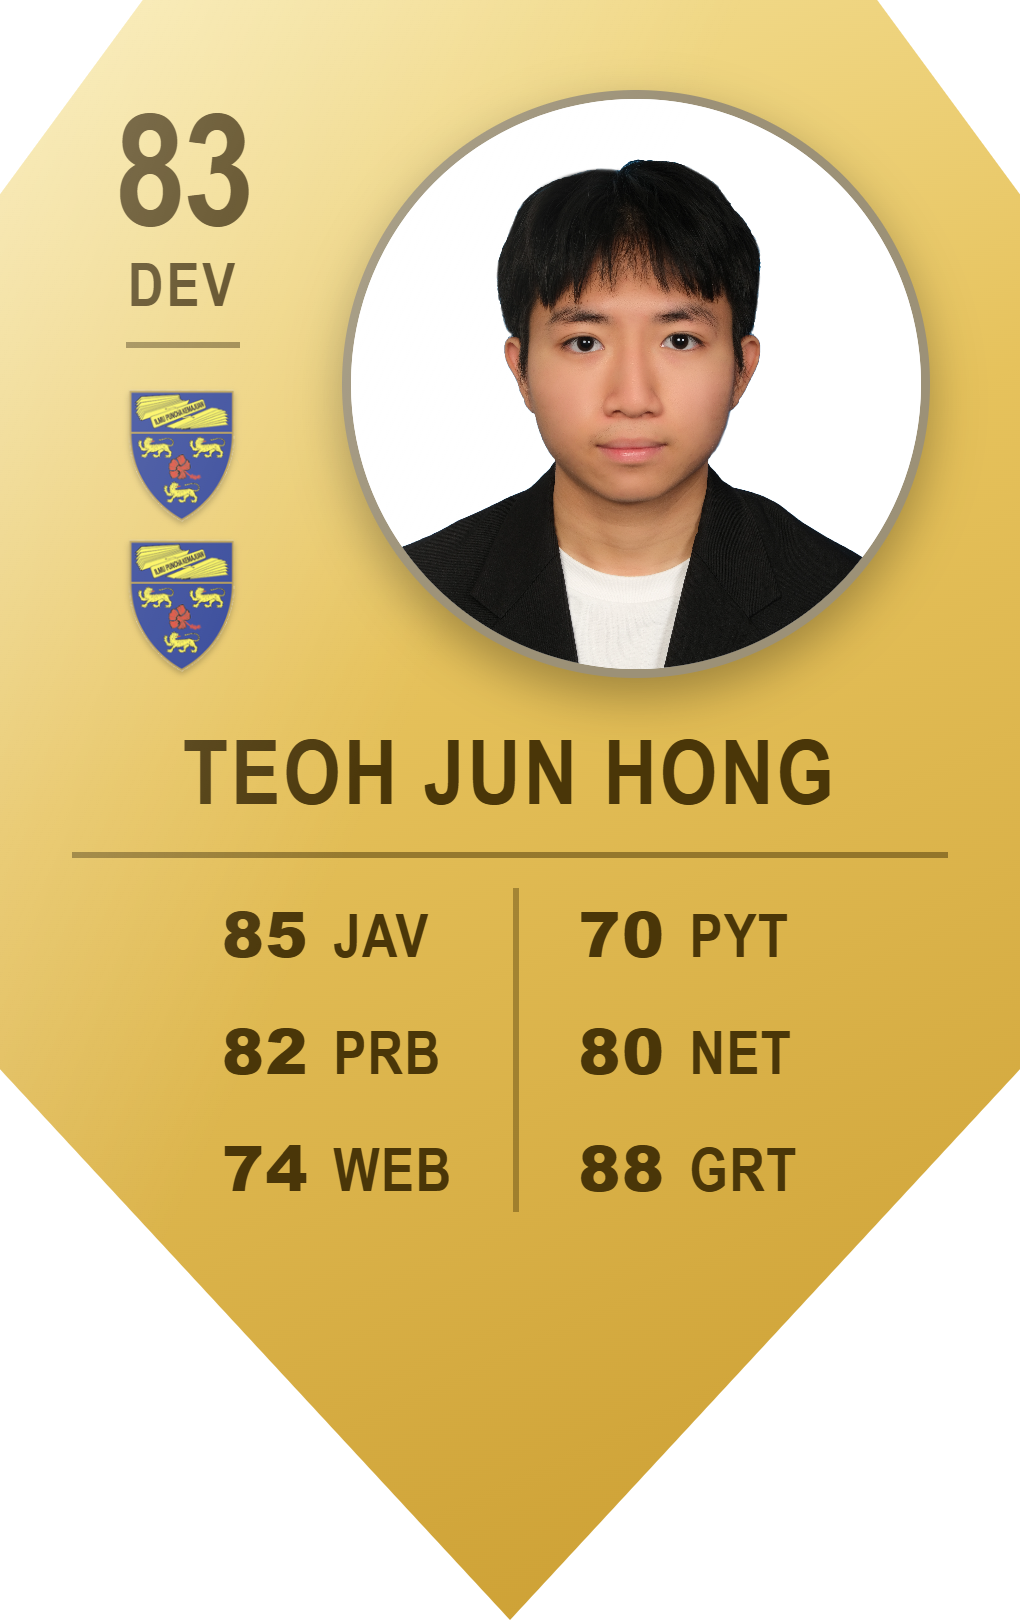
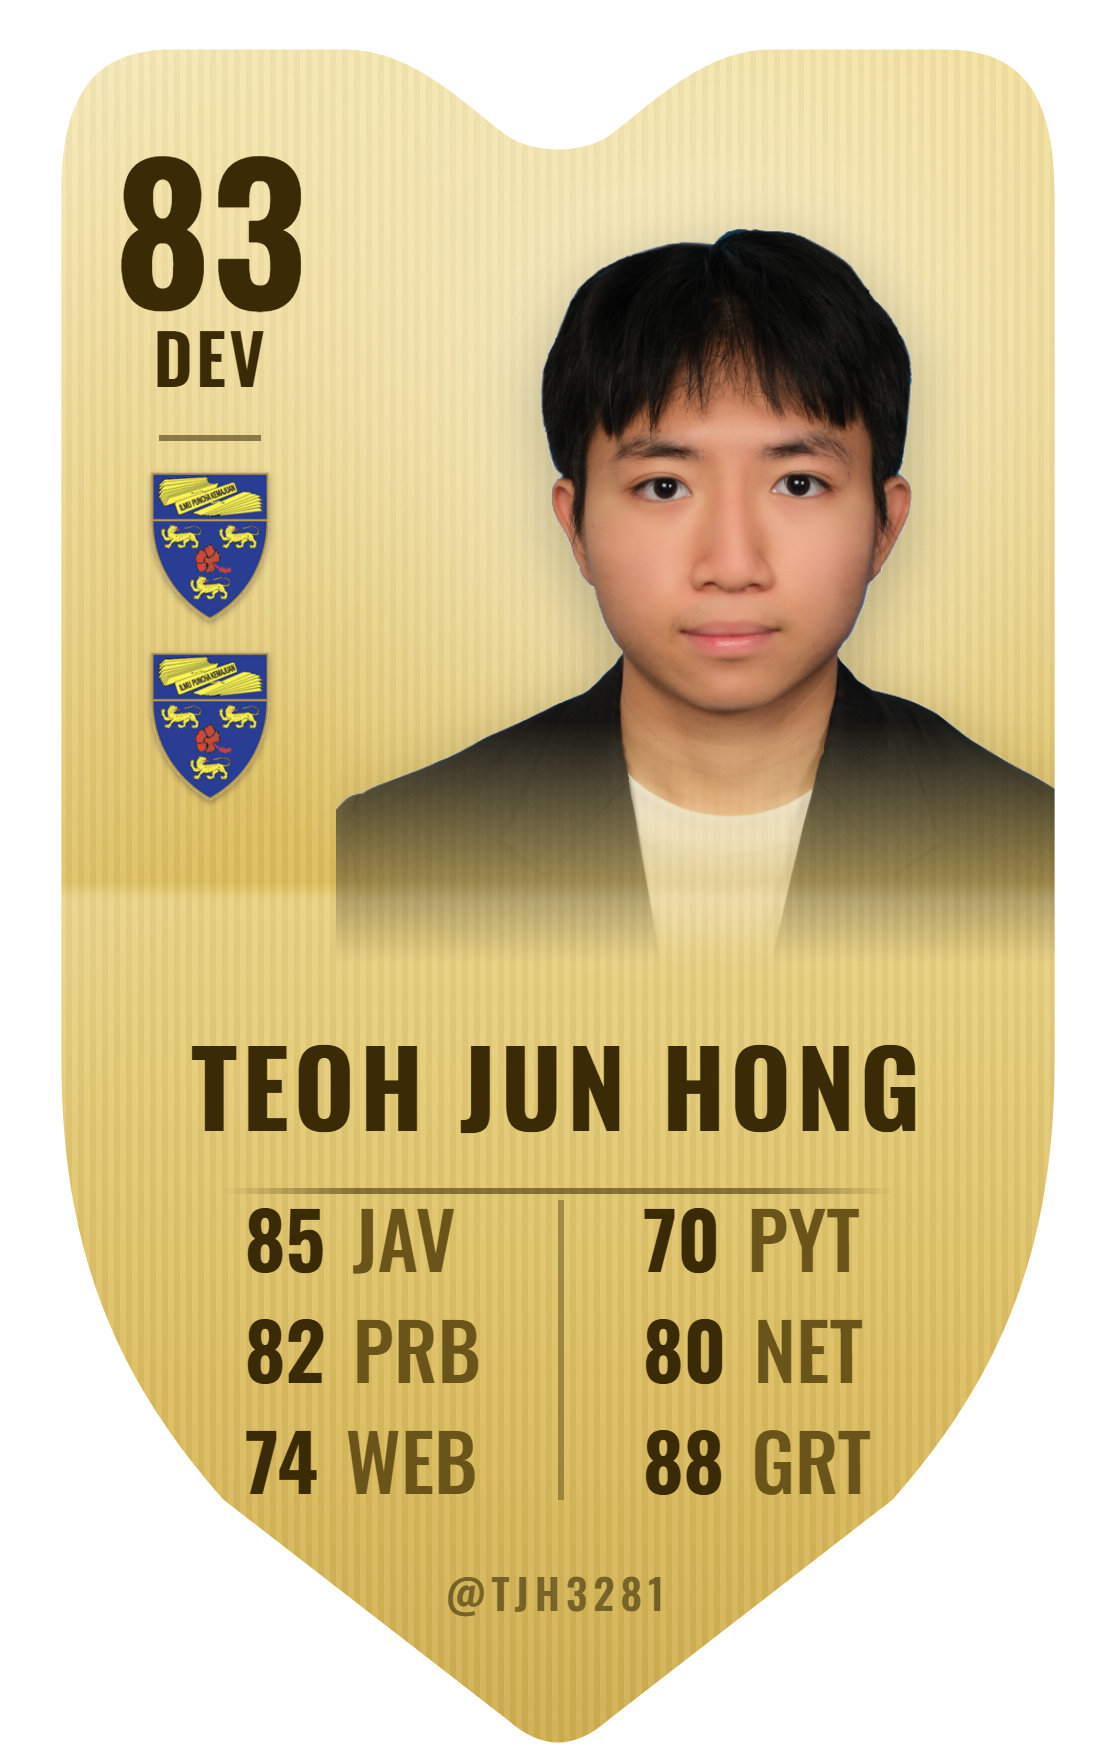
Redesign player card: FUT-style silhouette, cut-out photo, Oswald font

diff --git a/card.html b/card.html
@@ -4,93 +4,121 @@
 <meta charset="utf-8">
 <title>tjh3281 — dev card</title>
 <style>
-  :root { --gold-1:#f7e6a2; --gold-2:#e6c25c; --gold-3:#c99b2e; --ink:#4a3608; }
+  @import url('https://fonts.googleapis.com/css2?family=Oswald:wght@400;500;600;700&display=swap');
+
+  :root { --ink:#3a2b06; --ink-soft:#6a541a; }
   * { margin:0; padding:0; box-sizing:border-box; }
   html,body { background:transparent; }
-  body { display:flex; align-items:center; justify-content:center; padding:40px;
-         font-family:"Arial Narrow","Oswald",Impact,sans-serif; }
+  body { display:flex; align-items:center; justify-content:center; padding:44px;
+         font-family:"Oswald",sans-serif; }
 
   .card {
     position:relative;
-    width:340px; height:540px;
-    padding:26px 24px 22px;
-    background:linear-gradient(155deg,var(--gold-1) 0%,var(--gold-2) 40%,var(--gold-3) 100%);
-    clip-path:polygon(0 12%,14% 0,86% 0,100% 12%,100% 66%,50% 100%,0 66%);
+    width:372px; height:588px;
+    clip-path:url(#fut);
+    background:
+      radial-gradient(115% 70% at 63% 24%, rgba(255,255,255,.62), rgba(255,255,255,0) 46%),
+      repeating-linear-gradient(90deg, rgba(255,255,255,.05) 0 2px, rgba(0,0,0,.03) 2px 4px),
+      linear-gradient(180deg,#f3e09a 0%,#e7cd74 26%,#dcbd5c 50%,#e9d283 51%,#dcbe61 78%,#cfae4f 100%);
     color:var(--ink);
-    box-shadow:0 24px 60px rgba(0,0,0,.45);
+    filter:drop-shadow(0 22px 40px rgba(0,0,0,.42));
   }
-  /* subtle inner sheen */
-  .card::after{
+  /* top gloss */
+  .card::before{
     content:""; position:absolute; inset:0;
-    background:linear-gradient(115deg,rgba(255,255,255,.35),rgba(255,255,255,0) 42%);
-    clip-path:inherit; pointer-events:none;
+    background:linear-gradient(120deg,rgba(255,255,255,.4),rgba(255,255,255,0) 34%);
+    pointer-events:none;
   }
 
-  .top { display:flex; gap:10px; }
-
-  .rating { display:flex; flex-direction:column; align-items:center; width:74px; padding-top:8px; }
-  .ovr { font-size:52px; line-height:.9; font-weight:700; letter-spacing:-1px; }
-  .pos { font-size:20px; font-weight:700; letter-spacing:1px; margin-top:2px; }
-  .rule { width:38px; height:2px; background:var(--ink); opacity:.55; margin:8px 0; }
-  .crest { width:46px; height:46px; display:flex; align-items:center; justify-content:center; margin-top:4px; }
-  .crest img { max-width:100%; max-height:100%; object-fit:contain;
-               filter:drop-shadow(0 1px 1px rgba(0,0,0,.25)); }
-
-  .portrait { flex:1; display:flex; align-items:flex-start; justify-content:center; padding-top:4px; }
-  .portrait .frame {
-    width:196px; height:196px; border-radius:50%; overflow:hidden;
-    border:3px solid rgba(74,54,8,.55);
-    box-shadow:inset 0 0 0 4px rgba(255,255,255,.35), 0 6px 16px rgba(0,0,0,.3);
-    background:#fff;
+  .player{
+    position:absolute; top:4%; right:-2%; width:72%; z-index:1;
+    -webkit-mask-image:linear-gradient(180deg,#000 54%,transparent 74%);
+            mask-image:linear-gradient(180deg,#000 54%,transparent 74%);
+    filter:drop-shadow(0 6px 10px rgba(0,0,0,.25));
   }
-  .portrait img { width:100%; height:100%; object-fit:cover; object-position:center 18%; }
+  .player img{ width:100%; display:block; }
 
-  .name {
-    text-align:center; font-size:30px; font-weight:700; letter-spacing:1px;
-    text-transform:uppercase; margin:14px 0 10px;
-    border-bottom:2px solid rgba(74,54,8,.5); padding-bottom:10px;
+  .rating{
+    position:absolute; top:8.5%; left:10%; z-index:3;
+    display:flex; flex-direction:column; align-items:center; width:66px;
+  }
+  .ovr{ font-weight:700; font-size:62px; line-height:.82; }
+  .pos{ font-weight:600; font-size:23px; letter-spacing:1px; margin-top:1px; }
+  .rule{ width:34px; height:2px; background:var(--ink); opacity:.55; margin:9px 0 8px; }
+  .flag{ width:52px; height:52px; display:flex; align-items:center; justify-content:center; }
+  .flag img{ max-width:100%; max-height:100%; object-fit:contain;
+             filter:drop-shadow(0 1px 1px rgba(0,0,0,.3)); }
+  .flag + .flag{ margin-top:8px; }
+
+  .name{
+    position:absolute; top:57%; left:0; right:0; z-index:3; text-align:center;
+    font-weight:700; font-size:35px; letter-spacing:1.5px; text-transform:uppercase;
+  }
+  .name::after{
+    content:""; display:block; width:60%; height:2px; margin:9px auto 0;
+    background:linear-gradient(90deg,transparent,var(--ink) 20%,var(--ink) 80%,transparent);
+    opacity:.55;
   }
 
-  .stats { display:flex; justify-content:center; gap:20px; padding:0 6px; }
-  .col { display:flex; flex-direction:column; gap:9px; }
-  .stat { font-size:20px; font-weight:700; letter-spacing:.5px; white-space:nowrap; }
-  .stat b { font-size:21px; margin-right:8px; }
-  .vrule { width:2px; background:rgba(74,54,8,.4); align-self:stretch; }
+  .stats{
+    position:absolute; top:68%; left:0; right:0; z-index:3;
+    display:flex; justify-content:center; gap:26px;
+  }
+  .col{ display:flex; flex-direction:column; gap:11px; }
+  .stat{ font-size:26px; line-height:1; white-space:nowrap; }
+  .stat b{ font-weight:700; }
+  .stat span{ font-weight:500; color:var(--ink-soft); margin-left:9px; }
+  .vrule{ width:2px; background:var(--ink); opacity:.35; }
 
-  .foot { position:absolute; left:0; right:0; bottom:70px; text-align:center;
-          font-size:12px; letter-spacing:3px; font-weight:700; opacity:.7; }
+  .foot{
+    position:absolute; bottom:8%; left:0; right:0; z-index:3; text-align:center;
+    font-weight:600; font-size:14px; letter-spacing:2px; opacity:.6;
+  }
 </style>
 </head>
 <body>
+  <svg width="0" height="0" style="position:absolute">
+    <defs>
+      <clipPath id="fut" clipPathUnits="objectBoundingBox">
+        <path d="M0.055,0.11 C0.055,0.045 0.095,0.028 0.155,0.028 L0.31,0.028
+                 C0.365,0.028 0.41,0.055 0.45,0.075 C0.475,0.088 0.525,0.088 0.55,0.075
+                 C0.59,0.055 0.635,0.028 0.69,0.028 L0.845,0.028
+                 C0.905,0.028 0.945,0.045 0.945,0.11 L0.945,0.60
+                 C0.945,0.70 0.905,0.775 0.80,0.85 L0.545,0.975
+                 C0.515,0.992 0.485,0.992 0.455,0.975 L0.20,0.85
+                 C0.095,0.775 0.055,0.70 0.055,0.60 Z"/>
+      </clipPath>
+    </defs>
+  </svg>
+
   <div class="card" id="card">
-    <div class="top">
-      <div class="rating">
-        <span class="ovr">83</span>
-        <span class="pos">DEV</span>
-        <span class="rule"></span>
-        <span class="crest"><img src="assets/um-logo.png" alt="nation"></span>
-        <span class="crest"><img src="assets/um-logo.png" alt="club"></span>
-      </div>
-      <div class="portrait">
-        <div class="frame"><img src="assets/photo.jpg" alt="Teoh Jun Hong"></div>
-      </div>
+    <div class="player"><img src="assets/photo-cut.png" alt="Teoh Jun Hong"></div>
+
+    <div class="rating">
+      <span class="ovr">83</span>
+      <span class="pos">DEV</span>
+      <span class="rule"></span>
+      <span class="flag"><img src="assets/um-logo.png" alt="nation"></span>
+      <span class="flag"><img src="assets/um-logo.png" alt="club"></span>
     </div>
 
     <div class="name">Teoh Jun Hong</div>
 
     <div class="stats">
       <div class="col">
-        <div class="stat"><b>85</b>JAV</div>
-        <div class="stat"><b>82</b>PRB</div>
-        <div class="stat"><b>74</b>WEB</div>
+        <div class="stat"><b>85</b><span>JAV</span></div>
+        <div class="stat"><b>82</b><span>PRB</span></div>
+        <div class="stat"><b>74</b><span>WEB</span></div>
       </div>
       <div class="vrule"></div>
       <div class="col">
-        <div class="stat"><b>70</b>PYT</div>
-        <div class="stat"><b>80</b>NET</div>
-        <div class="stat"><b>88</b>GRT</div>
+        <div class="stat"><b>70</b><span>PYT</span></div>
+        <div class="stat"><b>80</b><span>NET</span></div>
+        <div class="stat"><b>88</b><span>GRT</span></div>
       </div>
     </div>
+
+    <div class="foot">@TJH3281</div>
   </div>
 </body>
 </html>
